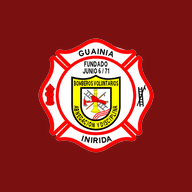
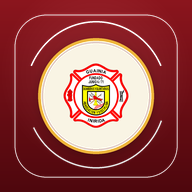
Add files via upload

diff --git a/index.html b/index.html
@@ -40,7 +40,7 @@ try {
      que la CDN responda.
      Motivo 2 (Inírida): el Service Worker ya puede cachearlo, así que el mapa
      deja de depender de una CDN externa para siquiera abrir. -->
-<link rel="stylesheet" href="vendor/leaflet/leaflet.css?v=6.53">
+<link rel="stylesheet" href="vendor/leaflet/leaflet.css?v=6.54">
 <!-- leaflet.markercluster CSS (incrustado) -->
 <style>
 .leaflet-cluster-anim .leaflet-marker-icon, .leaflet-cluster-anim .leaflet-marker-shadow {
@@ -119,7 +119,7 @@ try {
 	line-height: 30px;
 	}
 </style>
-<script src="vendor/leaflet/leaflet.js?v=6.53"></script>
+<script src="vendor/leaflet/leaflet.js?v=6.54"></script>
 <!-- leaflet.markercluster JS (incrustado) -->
 <script>
 !function(e,t){"object"==typeof exports&&"undefined"!=typeof module?t(exports):"function"==typeof define&&define.amd?define(["exports"],t):t(((e=e||self).Leaflet=e.Leaflet||{},e.Leaflet.markercluster={}))}(this,function(e){"use strict";var t=L.MarkerClusterGroup=L.FeatureGroup.extend({options:{maxClusterRadius:80,iconCreateFunction:null,clusterPane:L.Marker.prototype.options.pane,spiderfyOnEveryZoom:!1,spiderfyOnMaxZoom:!0,showCoverageOnHover:!0,zoomToBoundsOnClick:!0,singleMarkerMode:!1,disableClusteringAtZoom:null,removeOutsideVisibleBounds:!0,animate:!0,animateAddingMarkers:!1,spiderfyShapePositions:null,spiderfyDistanceMultiplier:1,spiderLegPolylineOptions:{weight:1.5,color:"#222",opacity:.5},chunkedLoading:!1,chunkInterval:200,chunkDelay:50,chunkProgress:null,polygonOptions:{}},initialize:function(e){L.Util.setOptions(this,e),this.options.iconCreateFunction||(this.options.iconCreateFunction=this._defaultIconCreateFunction),this._featureGroup=L.featureGroup(),this._featureGroup.addEventParent(this),this._nonPointGroup=L.featureGroup(),this._nonPointGroup.addEventParent(this),this._inZoomAnimation=0,this._needsClustering=[],this._needsRemoving=[],this._currentShownBounds=null,this._queue=[],this._childMarkerEventHandlers={dragstart:this._childMarkerDragStart,move:this._childMarkerMoved,dragend:this._childMarkerDragEnd};var t=L.DomUtil.TRANSITION&&this.options.animate;L.extend(this,t?this._withAnimation:this._noAnimation),this._markerCluster=t?L.MarkerCluster:L.MarkerClusterNonAnimated},addLayer:function(e){if(e instanceof L.LayerGroup)return this.addLayers([e]);if(!e.getLatLng)return this._nonPointGroup.addLayer(e),this.fire("layeradd",{layer:e}),this;if(!this._map)return this._needsClustering.push(e),this.fire("layeradd",{layer:e}),this;if(this.hasLayer(e))return this;this._unspiderfy&&this._unspiderfy(),this._addLayer(e,this._maxZoom),this.fire("layeradd",{layer:e}),this._topClusterLevel._recalculateBounds(),this._refreshClustersIcons();var t=e,i=this._zoom;if(e.__parent)for(;t.__parent._zoom>=i;)t=t.__parent;return this._currentShownBounds.contains(t.getLatLng())&&(this.options.animateAddingMarkers?this._animationAddLayer(e,t):this._animationAddLayerNonAnimated(e,t)),this},removeLayer:function(e){return e instanceof L.LayerGroup?this.removeLayers([e]):(e.getLatLng?this._map?e.__parent&&(this._unspiderfy&&(this._unspiderfy(),this._unspiderfyLayer(e)),this._removeLayer(e,!0),this.fire("layerremove",{layer:e}),this._topClusterLevel._recalculateBounds(),this._refreshClustersIcons(),e.off(this._childMarkerEventHandlers,this),this._featureGroup.hasLayer(e)&&(this._featureGroup.removeLayer(e),e.clusterShow&&e.clusterShow())):(!this._arraySplice(this._needsClustering,e)&&this.hasLayer(e)&&this._needsRemoving.push({layer:e,latlng:e._latlng}),this.fire("layerremove",{layer:e})):(this._nonPointGroup.removeLayer(e),this.fire("layerremove",{layer:e})),this)},addLayers:function(n,s){if(!L.Util.isArray(n))return this.addLayer(n);var o,a=this._featureGroup,h=this._nonPointGroup,l=this.options.chunkedLoading,u=this.options.chunkInterval,_=this.options.chunkProgress,d=n.length,p=0,c=!0;if(this._map){var f=(new Date).getTime(),m=L.bind(function(){var e=(new Date).getTime();for(this._map&&this._unspiderfy&&this._unspiderfy();p<d;p++){if(l&&p%200==0){var t=(new Date).getTime()-e;if(u<t)break}if((o=n[p])instanceof L.LayerGroup)c&&(n=n.slice(),c=!1),this._extractNonGroupLayers(o,n),d=n.length;else if(o.getLatLng){if(!this.hasLayer(o)&&(this._addLayer(o,this._maxZoom),s||this.fire("layeradd",{layer:o}),o.__parent&&2===o.__parent.getChildCount())){var i=o.__parent.getAllChildMarkers(),r=i[0]===o?i[1]:i[0];a.removeLayer(r)}}else h.addLayer(o),s||this.fire("layeradd",{layer:o})}_&&_(p,d,(new Date).getTime()-f),p===d?(this._topClusterLevel._recalculateBounds(),this._refreshClustersIcons(),this._topClusterLevel._recursivelyAddChildrenToMap(null,this._zoom,this._currentShownBounds)):setTimeout(m,this.options.chunkDelay)},this);m()}else for(var e=this._needsClustering;p<d;p++)(o=n[p])instanceof L.LayerGroup?(c&&(n=n.slice(),c=!1),this._extractNonGroupLayers(o,n),d=n.length):o.getLatLng?this.hasLayer(o)||e.push(o):h.addLayer(o);return this},removeLayers:function(e){var t,i,r=e.length,n=this._featureGroup,s=this._nonPointGroup,o=!0;if(!this._map){for(t=0;t<r;t++)(i=e[t])instanceof L.LayerGroup?(o&&(e=e.slice(),o=!1),this._extractNonGroupLayers(i,e),r=e.length):(this._arraySplice(this._needsClustering,i),s.removeLayer(i),this.hasLayer(i)&&this._needsRemoving.push({layer:i,latlng:i._latlng}),this.fire("layerremove",{layer:i}));return this}if(this._unspiderfy){this._unspiderfy();var a=e.slice(),h=r;for(t=0;t<h;t++)(i=a[t])instanceof L.LayerGroup?(this._extractNonGroupLayers(i,a),h=a.length):this._unspiderfyLayer(i)}for(t=0;t<r;t++)(i=e[t])instanceof L.LayerGroup?(o&&(e=e.slice(),o=!1),this._extractNonGroupLayers(i,e),r=e.length):i.__parent?(this._removeLayer(i,!0,!0),this.fire("layerremove",{layer:i}),n.hasLayer(i)&&(n.removeLayer(i),i.clusterShow&&i.clusterShow())):(s.removeLayer(i),this.fire("layerremove",{layer:i}));return this._topClusterLevel._recalculateBounds(),this._refreshClustersIcons(),this._topClusterLevel._recursivelyAddChildrenToMap(null,this._zoom,this._currentShownBounds),this},clearLayers:function(){return this._map||(this._needsClustering=[],this._needsRemoving=[],delete this._gridClusters,delete this._gridUnclustered),this._noanimationUnspiderfy&&this._noanimationUnspiderfy(),this._featureGroup.clearLayers(),this._nonPointGroup.clearLayers(),this.eachLayer(function(e){e.off(this._childMarkerEventHandlers,this),delete e.__parent},this),this._map&&this._generateInitialClusters(),this},getBounds:function(){var e=new L.LatLngBounds;this._topClusterLevel&&e.extend(this._topClusterLevel._bounds);for(var t=this._needsClustering.length-1;0<=t;t--)e.extend(this._needsClustering[t].getLatLng());return e.extend(this._nonPointGroup.getBounds()),e},eachLayer:function(e,t){var i,r,n,s=this._needsClustering.slice(),o=this._needsRemoving;for(this._topClusterLevel&&this._topClusterLevel.getAllChildMarkers(s),r=s.length-1;0<=r;r--){for(i=!0,n=o.length-1;0<=n;n--)if(o[n].layer===s[r]){i=!1;break}i&&e.call(t,s[r])}this._nonPointGroup.eachLayer(e,t)},getLayers:function(){var t=[];return this.eachLayer(function(e){t.push(e)}),t},getLayer:function(t){var i=null;return t=parseInt(t,10),this.eachLayer(function(e){L.stamp(e)===t&&(i=e)}),i},hasLayer:function(e){if(!e)return!1;var t,i=this._needsClustering;for(t=i.length-1;0<=t;t--)if(i[t]===e)return!0;for(t=(i=this._needsRemoving).length-1;0<=t;t--)if(i[t].layer===e)return!1;return!(!e.__parent||e.__parent._group!==this)||this._nonPointGroup.hasLayer(e)},zoomToShowLayer:function(e,t){var i=this._map;"function"!=typeof t&&(t=function(){});var r=function(){!i.hasLayer(e)&&!i.hasLayer(e.__parent)||this._inZoomAnimation||(this._map.off("moveend",r,this),this.off("animationend",r,this),i.hasLayer(e)?t():e.__parent._icon&&(this.once("spiderfied",t,this),e.__parent.spiderfy()))};e._icon&&this._map.getBounds().contains(e.getLatLng())?t():e.__parent._zoom<Math.round(this._map._zoom)?(this._map.on("moveend",r,this),this._map.panTo(e.getLatLng())):(this._map.on("moveend",r,this),this.on("animationend",r,this),e.__parent.zoomToBounds())},onAdd:function(e){var t,i,r;if(this._map=e,!isFinite(this._map.getMaxZoom()))throw"Map has no maxZoom specified";for(this._featureGroup.addTo(e),this._nonPointGroup.addTo(e),this._gridClusters||this._generateInitialClusters(),this._maxLat=e.options.crs.projection.MAX_LATITUDE,t=0,i=this._needsRemoving.length;t<i;t++)(r=this._needsRemoving[t]).newlatlng=r.layer._latlng,r.layer._latlng=r.latlng;for(t=0,i=this._needsRemoving.length;t<i;t++)r=this._needsRemoving[t],this._removeLayer(r.layer,!0),r.layer._latlng=r.newlatlng;this._needsRemoving=[],this._zoom=Math.round(this._map._zoom),this._currentShownBounds=this._getExpandedVisibleBounds(),this._map.on("zoomend",this._zoomEnd,this),this._map.on("moveend",this._moveEnd,this),this._spiderfierOnAdd&&this._spiderfierOnAdd(),this._bindEvents(),i=this._needsClustering,this._needsClustering=[],this.addLayers(i,!0)},onRemove:function(e){e.off("zoomend",this._zoomEnd,this),e.off("moveend",this._moveEnd,this),this._unbindEvents(),this._map._mapPane.className=this._map._mapPane.className.replace(" leaflet-cluster-anim",""),this._spiderfierOnRemove&&this._spiderfierOnRemove(),delete this._maxLat,this._hideCoverage(),this._featureGroup.remove(),this._nonPointGroup.remove(),this._featureGroup.clearLayers(),this._map=null},getVisibleParent:function(e){for(var t=e;t&&!t._icon;)t=t.__parent;return t||null},_arraySplice:function(e,t){for(var i=e.length-1;0<=i;i--)if(e[i]===t)return e.splice(i,1),!0},_removeFromGridUnclustered:function(e,t){for(var i=this._map,r=this._gridUnclustered,n=Math.floor(this._map.getMinZoom());n<=t&&r[t].removeObject(e,i.project(e.getLatLng(),t));t--);},_childMarkerDragStart:function(e){e.target.__dragStart=e.target._latlng},_childMarkerMoved:function(e){if(!this._ignoreMove&&!e.target.__dragStart){var t=e.target._popup&&e.target._popup.isOpen();this._moveChild(e.target,e.oldLatLng,e.latlng),t&&e.target.openPopup()}},_moveChild:function(e,t,i){e._latlng=t,this.removeLayer(e),e._latlng=i,this.addLayer(e)},_childMarkerDragEnd:function(e){var t=e.target.__dragStart;delete e.target.__dragStart,t&&this._moveChild(e.target,t,e.target._latlng)},_removeLayer:function(e,t,i){var r=this._gridClusters,n=this._gridUnclustered,s=this._featureGroup,o=this._map,a=Math.floor(this._map.getMinZoom());t&&this._removeFromGridUnclustered(e,this._maxZoom);var h,l=e.__parent,u=l._markers;for(this._arraySplice(u,e);l&&(l._childCount--,l._boundsNeedUpdate=!0,!(l._zoom<a));)t&&l._childCount<=1?(h=l._markers[0]===e?l._markers[1]:l._markers[0],r[l._zoom].removeObject(l,o.project(l._cLatLng,l._zoom)),n[l._zoom].addObject(h,o.project(h.getLatLng(),l._zoom)),this._arraySplice(l.__parent._childClusters,l),l.__parent._markers.push(h),h.__parent=l.__parent,l._icon&&(s.removeLayer(l),i||s.addLayer(h))):l._iconNeedsUpdate=!0,l=l.__parent;delete e.__parent},_isOrIsParent:function(e,t){for(;t;){if(e===t)return!0;t=t.parentNode}return!1},fire:function(e,t,i){if(t&&t.layer instanceof L.MarkerCluster){if(t.originalEvent&&this._isOrIsParent(t.layer._icon,t.originalEvent.relatedTarget))return;e="cluster"+e}L.FeatureGroup.prototype.fire.call(this,e,t,i)},listens:function(e,t){return L.FeatureGroup.prototype.listens.call(this,e,t)||L.FeatureGroup.prototype.listens.call(this,"cluster"+e,t)},_defaultIconCreateFunction:function(e){var t=e.getChildCount(),i=" marker-cluster-";return i+=t<10?"small":t<100?"medium":"large",new L.DivIcon({html:"<div><span>"+t+"</span></div>",className:"marker-cluster"+i,iconSize:new L.Point(40,40)})},_bindEvents:function(){var e=this._map,t=this.options.spiderfyOnMaxZoom,i=this.options.showCoverageOnHover,r=this.options.zoomToBoundsOnClick,n=this.options.spiderfyOnEveryZoom;(t||r||n)&&this.on("clusterclick clusterkeypress",this._zoomOrSpiderfy,this),i&&(this.on("clustermouseover",this._showCoverage,this),this.on("clustermouseout",this._hideCoverage,this),e.on("zoomend",this._hideCoverage,this))},_zoomOrSpiderfy:function(e){var t=e.layer,i=t;if("clusterkeypress"!==e.type||!e.originalEvent||13===e.originalEvent.keyCode){for(;1===i._childClusters.length;)i=i._childClusters[0];i._zoom===this._maxZoom&&i._childCount===t._childCount&&this.options.spiderfyOnMaxZoom?t.spiderfy():this.options.zoomToBoundsOnClick&&t.zoomToBounds(),this.options.spiderfyOnEveryZoom&&t.spiderfy(),e.originalEvent&&13===e.originalEvent.keyCode&&this._map._container.focus()}},_showCoverage:function(e){var t=this._map;this._inZoomAnimation||(this._shownPolygon&&t.removeLayer(this._shownPolygon),2<e.layer.getChildCount()&&e.layer!==this._spiderfied&&(this._shownPolygon=new L.Polygon(e.layer.getConvexHull(),this.options.polygonOptions),t.addLayer(this._shownPolygon)))},_hideCoverage:function(){this._shownPolygon&&(this._map.removeLayer(this._shownPolygon),this._shownPolygon=null)},_unbindEvents:function(){var e=this.options.spiderfyOnMaxZoom,t=this.options.showCoverageOnHover,i=this.options.zoomToBoundsOnClick,r=this.options.spiderfyOnEveryZoom,n=this._map;(e||i||r)&&this.off("clusterclick clusterkeypress",this._zoomOrSpiderfy,this),t&&(this.off("clustermouseover",this._showCoverage,this),this.off("clustermouseout",this._hideCoverage,this),n.off("zoomend",this._hideCoverage,this))},_zoomEnd:function(){this._map&&(this._mergeSplitClusters(),this._zoom=Math.round(this._map._zoom),this._currentShownBounds=this._getExpandedVisibleBounds())},_moveEnd:function(){if(!this._inZoomAnimation){var e=this._getExpandedVisibleBounds();this._topClusterLevel._recursivelyRemoveChildrenFromMap(this._currentShownBounds,Math.floor(this._map.getMinZoom()),this._zoom,e),this._topClusterLevel._recursivelyAddChildrenToMap(null,Math.round(this._map._zoom),e),this._currentShownBounds=e}},_generateInitialClusters:function(){var e=Math.ceil(this._map.getMaxZoom()),t=Math.floor(this._map.getMinZoom()),i=this.options.maxClusterRadius,r=i;"function"!=typeof i&&(r=function(){return i}),null!==this.options.disableClusteringAtZoom&&(e=this.options.disableClusteringAtZoom-1),this._maxZoom=e,this._gridClusters={},this._gridUnclustered={};for(var n=e;t<=n;n--)this._gridClusters[n]=new L.DistanceGrid(r(n)),this._gridUnclustered[n]=new L.DistanceGrid(r(n));this._topClusterLevel=new this._markerCluster(this,t-1)},_addLayer:function(e,t){var i,r,n=this._gridClusters,s=this._gridUnclustered,o=Math.floor(this._map.getMinZoom());for(this.options.singleMarkerMode&&this._overrideMarkerIcon(e),e.on(this._childMarkerEventHandlers,this);o<=t;t--){i=this._map.project(e.getLatLng(),t);var a=n[t].getNearObject(i);if(a)return a._addChild(e),void(e.__parent=a);if(a=s[t].getNearObject(i)){var h=a.__parent;h&&this._removeLayer(a,!1);var l=new this._markerCluster(this,t,a,e);n[t].addObject(l,this._map.project(l._cLatLng,t)),a.__parent=l;var u=e.__parent=l;for(r=t-1;r>h._zoom;r--)u=new this._markerCluster(this,r,u),n[r].addObject(u,this._map.project(a.getLatLng(),r));return h._addChild(u),void this._removeFromGridUnclustered(a,t)}s[t].addObject(e,i)}this._topClusterLevel._addChild(e),e.__parent=this._topClusterLevel},_refreshClustersIcons:function(){this._featureGroup.eachLayer(function(e){e instanceof L.MarkerCluster&&e._iconNeedsUpdate&&e._updateIcon()})},_enqueue:function(e){this._queue.push(e),this._queueTimeout||(this._queueTimeout=setTimeout(L.bind(this._processQueue,this),300))},_processQueue:function(){for(var e=0;e<this._queue.length;e++)this._queue[e].call(this);this._queue.length=0,clearTimeout(this._queueTimeout),this._queueTimeout=null},_mergeSplitClusters:function(){var e=Math.round(this._map._zoom);this._processQueue(),this._zoom<e&&this._currentShownBounds.intersects(this._getExpandedVisibleBounds())?(this._animationStart(),this._topClusterLevel._recursivelyRemoveChildrenFromMap(this._currentShownBounds,Math.floor(this._map.getMinZoom()),this._zoom,this._getExpandedVisibleBounds()),this._animationZoomIn(this._zoom,e)):this._zoom>e?(this._animationStart(),this._animationZoomOut(this._zoom,e)):this._moveEnd()},_getExpandedVisibleBounds:function(){return this.options.removeOutsideVisibleBounds?L.Browser.mobile?this._checkBoundsMaxLat(this._map.getBounds()):this._checkBoundsMaxLat(this._map.getBounds().pad(1)):this._mapBoundsInfinite},_checkBoundsMaxLat:function(e){var t=this._maxLat;return void 0!==t&&(e.getNorth()>=t&&(e._northEast.lat=1/0),e.getSouth()<=-t&&(e._southWest.lat=-1/0)),e},_animationAddLayerNonAnimated:function(e,t){if(t===e)this._featureGroup.addLayer(e);else if(2===t._childCount){t._addToMap();var i=t.getAllChildMarkers();this._featureGroup.removeLayer(i[0]),this._featureGroup.removeLayer(i[1])}else t._updateIcon()},_extractNonGroupLayers:function(e,t){var i,r=e.getLayers(),n=0;for(t=t||[];n<r.length;n++)(i=r[n])instanceof L.LayerGroup?this._extractNonGroupLayers(i,t):t.push(i);return t},_overrideMarkerIcon:function(e){return e.options.icon=this.options.iconCreateFunction({getChildCount:function(){return 1},getAllChildMarkers:function(){return[e]}})}});L.MarkerClusterGroup.include({_mapBoundsInfinite:new L.LatLngBounds(new L.LatLng(-1/0,-1/0),new L.LatLng(1/0,1/0))}),L.MarkerClusterGroup.include({_noAnimation:{_animationStart:function(){},_animationZoomIn:function(e,t){this._topClusterLevel._recursivelyRemoveChildrenFromMap(this._currentShownBounds,Math.floor(this._map.getMinZoom()),e),this._topClusterLevel._recursivelyAddChildrenToMap(null,t,this._getExpandedVisibleBounds()),this.fire("animationend")},_animationZoomOut:function(e,t){this._topClusterLevel._recursivelyRemoveChildrenFromMap(this._currentShownBounds,Math.floor(this._map.getMinZoom()),e),this._topClusterLevel._recursivelyAddChildrenToMap(null,t,this._getExpandedVisibleBounds()),this.fire("animationend")},_animationAddLayer:function(e,t){this._animationAddLayerNonAnimated(e,t)}},_withAnimation:{_animationStart:function(){this._map._mapPane.className+=" leaflet-cluster-anim",this._inZoomAnimation++},_animationZoomIn:function(n,s){var o,a=this._getExpandedVisibleBounds(),h=this._featureGroup,e=Math.floor(this._map.getMinZoom());this._ignoreMove=!0,this._topClusterLevel._recursively(a,n,e,function(e){var t,i=e._latlng,r=e._markers;for(a.contains(i)||(i=null),e._isSingleParent()&&n+1===s?(h.removeLayer(e),e._recursivelyAddChildrenToMap(null,s,a)):(e.clusterHide(),e._recursivelyAddChildrenToMap(i,s,a)),o=r.length-1;0<=o;o--)t=r[o],a.contains(t._latlng)||h.removeLayer(t)}),this._forceLayout(),this._topClusterLevel._recursivelyBecomeVisible(a,s),h.eachLayer(function(e){e instanceof L.MarkerCluster||!e._icon||e.clusterShow()}),this._topClusterLevel._recursively(a,n,s,function(e){e._recursivelyRestoreChildPositions(s)}),this._ignoreMove=!1,this._enqueue(function(){this._topClusterLevel._recursively(a,n,e,function(e){h.removeLayer(e),e.clusterShow()}),this._animationEnd()})},_animationZoomOut:function(e,t){this._animationZoomOutSingle(this._topClusterLevel,e-1,t),this._topClusterLevel._recursivelyAddChildrenToMap(null,t,this._getExpandedVisibleBounds()),this._topClusterLevel._recursivelyRemoveChildrenFromMap(this._currentShownBounds,Math.floor(this._map.getMinZoom()),e,this._getExpandedVisibleBounds())},_animationAddLayer:function(e,t){var i=this,r=this._featureGroup;r.addLayer(e),t!==e&&(2<t._childCount?(t._updateIcon(),this._forceLayout(),this._animationStart(),e._setPos(this._map.latLngToLayerPoint(t.getLatLng())),e.clusterHide(),this._enqueue(function(){r.removeLayer(e),e.clusterShow(),i._animationEnd()})):(this._forceLayout(),i._animationStart(),i._animationZoomOutSingle(t,this._map.getMaxZoom(),this._zoom)))}},_animationZoomOutSingle:function(t,i,r){var n=this._getExpandedVisibleBounds(),s=Math.floor(this._map.getMinZoom());t._recursivelyAnimateChildrenInAndAddSelfToMap(n,s,i+1,r);var o=this;this._forceLayout(),t._recursivelyBecomeVisible(n,r),this._enqueue(function(){if(1===t._childCount){var e=t._markers[0];this._ignoreMove=!0,e.setLatLng(e.getLatLng()),this._ignoreMove=!1,e.clusterShow&&e.clusterShow()}else t._recursively(n,r,s,function(e){e._recursivelyRemoveChildrenFromMap(n,s,i+1)});o._animationEnd()})},_animationEnd:function(){this._map&&(this._map._mapPane.className=this._map._mapPane.className.replace(" leaflet-cluster-anim","")),this._inZoomAnimation--,this.fire("animationend")},_forceLayout:function(){L.Util.falseFn(document.body.offsetWidth)}}),L.markerClusterGroup=function(e){return new L.MarkerClusterGroup(e)};var i=L.MarkerCluster=L.Marker.extend({options:L.Icon.prototype.options,initialize:function(e,t,i,r){L.Marker.prototype.initialize.call(this,i?i._cLatLng||i.getLatLng():new L.LatLng(0,0),{icon:this,pane:e.options.clusterPane}),this._group=e,this._zoom=t,this._markers=[],this._childClusters=[],this._childCount=0,this._iconNeedsUpdate=!0,this._boundsNeedUpdate=!0,this._bounds=new L.LatLngBounds,i&&this._addChild(i),r&&this._addChild(r)},getAllChildMarkers:function(e,t){e=e||[];for(var i=this._childClusters.length-1;0<=i;i--)this._childClusters[i].getAllChildMarkers(e,t);for(var r=this._markers.length-1;0<=r;r--)t&&this._markers[r].__dragStart||e.push(this._markers[r]);return e},getChildCount:function(){return this._childCount},zoomToBounds:function(e){for(var t,i=this._childClusters.slice(),r=this._group._map,n=r.getBoundsZoom(this._bounds),s=this._zoom+1,o=r.getZoom();0<i.length&&s<n;){s++;var a=[];for(t=0;t<i.length;t++)a=a.concat(i[t]._childClusters);i=a}s<n?this._group._map.setView(this._latlng,s):n<=o?this._group._map.setView(this._latlng,o+1):this._group._map.fitBounds(this._bounds,e)},getBounds:function(){var e=new L.LatLngBounds;return e.extend(this._bounds),e},_updateIcon:function(){this._iconNeedsUpdate=!0,this._icon&&this.setIcon(this)},createIcon:function(){return this._iconNeedsUpdate&&(this._iconObj=this._group.options.iconCreateFunction(this),this._iconNeedsUpdate=!1),this._iconObj.createIcon()},createShadow:function(){return this._iconObj.createShadow()},_addChild:function(e,t){this._iconNeedsUpdate=!0,this._boundsNeedUpdate=!0,this._setClusterCenter(e),e instanceof L.MarkerCluster?(t||(this._childClusters.push(e),e.__parent=this),this._childCount+=e._childCount):(t||this._markers.push(e),this._childCount++),this.__parent&&this.__parent._addChild(e,!0)},_setClusterCenter:function(e){this._cLatLng||(this._cLatLng=e._cLatLng||e._latlng)},_resetBounds:function(){var e=this._bounds;e._southWest&&(e._southWest.lat=1/0,e._southWest.lng=1/0),e._northEast&&(e._northEast.lat=-1/0,e._northEast.lng=-1/0)},_recalculateBounds:function(){var e,t,i,r,n=this._markers,s=this._childClusters,o=0,a=0,h=this._childCount;if(0!==h){for(this._resetBounds(),e=0;e<n.length;e++)i=n[e]._latlng,this._bounds.extend(i),o+=i.lat,a+=i.lng;for(e=0;e<s.length;e++)(t=s[e])._boundsNeedUpdate&&t._recalculateBounds(),this._bounds.extend(t._bounds),i=t._wLatLng,r=t._childCount,o+=i.lat*r,a+=i.lng*r;this._latlng=this._wLatLng=new L.LatLng(o/h,a/h),this._boundsNeedUpdate=!1}},_addToMap:function(e){e&&(this._backupLatlng=this._latlng,this.setLatLng(e)),this._group._featureGroup.addLayer(this)},_recursivelyAnimateChildrenIn:function(e,n,t){this._recursively(e,this._group._map.getMinZoom(),t-1,function(e){var t,i,r=e._markers;for(t=r.length-1;0<=t;t--)(i=r[t])._icon&&(i._setPos(n),i.clusterHide())},function(e){var t,i,r=e._childClusters;for(t=r.length-1;0<=t;t--)(i=r[t])._icon&&(i._setPos(n),i.clusterHide())})},_recursivelyAnimateChildrenInAndAddSelfToMap:function(t,i,r,n){this._recursively(t,n,i,function(e){e._recursivelyAnimateChildrenIn(t,e._group._map.latLngToLayerPoint(e.getLatLng()).round(),r),e._isSingleParent()&&r-1===n?(e.clusterShow(),e._recursivelyRemoveChildrenFromMap(t,i,r)):e.clusterHide(),e._addToMap()})},_recursivelyBecomeVisible:function(e,t){this._recursively(e,this._group._map.getMinZoom(),t,null,function(e){e.clusterShow()})},_recursivelyAddChildrenToMap:function(r,n,s){this._recursively(s,this._group._map.getMinZoom()-1,n,function(e){if(n!==e._zoom)for(var t=e._markers.length-1;0<=t;t--){var i=e._markers[t];s.contains(i._latlng)&&(r&&(i._backupLatlng=i.getLatLng(),i.setLatLng(r),i.clusterHide&&i.clusterHide()),e._group._featureGroup.addLayer(i))}},function(e){e._addToMap(r)})},_recursivelyRestoreChildPositions:function(e){for(var t=this._markers.length-1;0<=t;t--){var i=this._markers[t];i._backupLatlng&&(i.setLatLng(i._backupLatlng),delete i._backupLatlng)}if(e-1===this._zoom)for(var r=this._childClusters.length-1;0<=r;r--)this._childClusters[r]._restorePosition();else for(var n=this._childClusters.length-1;0<=n;n--)this._childClusters[n]._recursivelyRestoreChildPositions(e)},_restorePosition:function(){this._backupLatlng&&(this.setLatLng(this._backupLatlng),delete this._backupLatlng)},_recursivelyRemoveChildrenFromMap:function(e,t,i,r){var n,s;this._recursively(e,t-1,i-1,function(e){for(s=e._markers.length-1;0<=s;s--)n=e._markers[s],r&&r.contains(n._latlng)||(e._group._featureGroup.removeLayer(n),n.clusterShow&&n.clusterShow())},function(e){for(s=e._childClusters.length-1;0<=s;s--)n=e._childClusters[s],r&&r.contains(n._latlng)||(e._group._featureGroup.removeLayer(n),n.clusterShow&&n.clusterShow())})},_recursively:function(e,t,i,r,n){var s,o,a=this._childClusters,h=this._zoom;if(t<=h&&(r&&r(this),n&&h===i&&n(this)),h<t||h<i)for(s=a.length-1;0<=s;s--)(o=a[s])._boundsNeedUpdate&&o._recalculateBounds(),e.intersects(o._bounds)&&o._recursively(e,t,i,r,n)},_isSingleParent:function(){return 0<this._childClusters.length&&this._childClusters[0]._childCount===this._childCount}});L.Marker.include({clusterHide:function(){var e=this.options.opacity;return this.setOpacity(0),this.options.opacity=e,this},clusterShow:function(){return this.setOpacity(this.options.opacity)}}),L.DistanceGrid=function(e){this._cellSize=e,this._sqCellSize=e*e,this._grid={},this._objectPoint={}},L.DistanceGrid.prototype={addObject:function(e,t){var i=this._getCoord(t.x),r=this._getCoord(t.y),n=this._grid,s=n[r]=n[r]||{},o=s[i]=s[i]||[],a=L.Util.stamp(e);this._objectPoint[a]=t,o.push(e)},updateObject:function(e,t){this.removeObject(e),this.addObject(e,t)},removeObject:function(e,t){var i,r,n=this._getCoord(t.x),s=this._getCoord(t.y),o=this._grid,a=o[s]=o[s]||{},h=a[n]=a[n]||[];for(delete this._objectPoint[L.Util.stamp(e)],i=0,r=h.length;i<r;i++)if(h[i]===e)return h.splice(i,1),1===r&&delete a[n],!0},eachObject:function(e,t){var i,r,n,s,o,a,h=this._grid;for(i in h)for(r in o=h[i])for(n=0,s=(a=o[r]).length;n<s;n++)e.call(t,a[n])&&(n--,s--)},getNearObject:function(e){var t,i,r,n,s,o,a,h,l=this._getCoord(e.x),u=this._getCoord(e.y),_=this._objectPoint,d=this._sqCellSize,p=null;for(t=u-1;t<=u+1;t++)if(n=this._grid[t])for(i=l-1;i<=l+1;i++)if(s=n[i])for(r=0,o=s.length;r<o;r++)a=s[r],((h=this._sqDist(_[L.Util.stamp(a)],e))<d||h<=d&&null===p)&&(d=h,p=a);return p},_getCoord:function(e){var t=Math.floor(e/this._cellSize);return isFinite(t)?t:e},_sqDist:function(e,t){var i=t.x-e.x,r=t.y-e.y;return i*i+r*r}},L.QuickHull={getDistant:function(e,t){var i=t[1].lat-t[0].lat;return(t[0].lng-t[1].lng)*(e.lat-t[0].lat)+i*(e.lng-t[0].lng)},findMostDistantPointFromBaseLine:function(e,t){var i,r,n,s=0,o=null,a=[];for(i=t.length-1;0<=i;i--)r=t[i],0<(n=this.getDistant(r,e))&&(a.push(r),s<n&&(s=n,o=r));return{maxPoint:o,newPoints:a}},buildConvexHull:function(e,t){var i=[],r=this.findMostDistantPointFromBaseLine(e,t);return r.maxPoint?i=(i=i.concat(this.buildConvexHull([e[0],r.maxPoint],r.newPoints))).concat(this.buildConvexHull([r.maxPoint,e[1]],r.newPoints)):[e[0]]},getConvexHull:function(e){var t,i=!1,r=!1,n=!1,s=!1,o=null,a=null,h=null,l=null,u=null,_=null;for(t=e.length-1;0<=t;t--){var d=e[t];(!1===i||d.lat>i)&&(i=(o=d).lat),(!1===r||d.lat<r)&&(r=(a=d).lat),(!1===n||d.lng>n)&&(n=(h=d).lng),(!1===s||d.lng<s)&&(s=(l=d).lng)}return u=r!==i?(_=a,o):(_=l,h),[].concat(this.buildConvexHull([_,u],e),this.buildConvexHull([u,_],e))}},L.MarkerCluster.include({getConvexHull:function(){var e,t,i=this.getAllChildMarkers(),r=[];for(t=i.length-1;0<=t;t--)e=i[t].getLatLng(),r.push(e);return L.QuickHull.getConvexHull(r)}}),L.MarkerCluster.include({_2PI:2*Math.PI,_circleFootSeparation:25,_circleStartAngle:0,_spiralFootSeparation:28,_spiralLengthStart:11,_spiralLengthFactor:5,_circleSpiralSwitchover:9,spiderfy:function(){if(this._group._spiderfied!==this&&!this._group._inZoomAnimation){var e,t=this.getAllChildMarkers(null,!0),i=this._group._map.latLngToLayerPoint(this._latlng);this._group._unspiderfy(),e=(this._group._spiderfied=this)._group.options.spiderfyShapePositions?this._group.options.spiderfyShapePositions(t.length,i):t.length>=this._circleSpiralSwitchover?this._generatePointsSpiral(t.length,i):(i.y+=10,this._generatePointsCircle(t.length,i)),this._animationSpiderfy(t,e)}},unspiderfy:function(e){this._group._inZoomAnimation||(this._animationUnspiderfy(e),this._group._spiderfied=null)},_generatePointsCircle:function(e,t){var i,r,n=this._group.options.spiderfyDistanceMultiplier*this._circleFootSeparation*(2+e)/this._2PI,s=this._2PI/e,o=[];for(n=Math.max(n,35),o.length=e,i=0;i<e;i++)r=this._circleStartAngle+i*s,o[i]=new L.Point(t.x+n*Math.cos(r),t.y+n*Math.sin(r))._round();return o},_generatePointsSpiral:function(e,t){var i,r=this._group.options.spiderfyDistanceMultiplier,n=r*this._spiralLengthStart,s=r*this._spiralFootSeparation,o=r*this._spiralLengthFactor*this._2PI,a=0,h=[];for(i=h.length=e;0<=i;i--)i<e&&(h[i]=new L.Point(t.x+n*Math.cos(a),t.y+n*Math.sin(a))._round()),n+=o/(a+=s/n+5e-4*i);return h},_noanimationUnspiderfy:function(){var e,t,i=this._group,r=i._map,n=i._featureGroup,s=this.getAllChildMarkers(null,!0);for(i._ignoreMove=!0,this.setOpacity(1),t=s.length-1;0<=t;t--)e=s[t],n.removeLayer(e),e._preSpiderfyLatlng&&(e.setLatLng(e._preSpiderfyLatlng),delete e._preSpiderfyLatlng),e.setZIndexOffset&&e.setZIndexOffset(0),e._spiderLeg&&(r.removeLayer(e._spiderLeg),delete e._spiderLeg);i.fire("unspiderfied",{cluster:this,markers:s}),i._ignoreMove=!1,i._spiderfied=null}}),L.MarkerClusterNonAnimated=L.MarkerCluster.extend({_animationSpiderfy:function(e,t){var i,r,n,s,o=this._group,a=o._map,h=o._featureGroup,l=this._group.options.spiderLegPolylineOptions;for(o._ignoreMove=!0,i=0;i<e.length;i++)s=a.layerPointToLatLng(t[i]),r=e[i],n=new L.Polyline([this._latlng,s],l),a.addLayer(n),r._spiderLeg=n,r._preSpiderfyLatlng=r._latlng,r.setLatLng(s),r.setZIndexOffset&&r.setZIndexOffset(1e6),h.addLayer(r);this.setOpacity(.3),o._ignoreMove=!1,o.fire("spiderfied",{cluster:this,markers:e})},_animationUnspiderfy:function(){this._noanimationUnspiderfy()}}),L.MarkerCluster.include({_animationSpiderfy:function(e,t){var i,r,n,s,o,a,h=this,l=this._group,u=l._map,_=l._featureGroup,d=this._latlng,p=u.latLngToLayerPoint(d),c=L.Path.SVG,f=L.extend({},this._group.options.spiderLegPolylineOptions),m=f.opacity;for(void 0===m&&(m=L.MarkerClusterGroup.prototype.options.spiderLegPolylineOptions.opacity),c?(f.opacity=0,f.className=(f.className||"")+" leaflet-cluster-spider-leg"):f.opacity=m,l._ignoreMove=!0,i=0;i<e.length;i++)r=e[i],a=u.layerPointToLatLng(t[i]),n=new L.Polyline([d,a],f),u.addLayer(n),r._spiderLeg=n,c&&(o=(s=n._path).getTotalLength()+.1,s.style.strokeDasharray=o,s.style.strokeDashoffset=o),r.setZIndexOffset&&r.setZIndexOffset(1e6),r.clusterHide&&r.clusterHide(),_.addLayer(r),r._setPos&&r._setPos(p);for(l._forceLayout(),l._animationStart(),i=e.length-1;0<=i;i--)a=u.layerPointToLatLng(t[i]),(r=e[i])._preSpiderfyLatlng=r._latlng,r.setLatLng(a),r.clusterShow&&r.clusterShow(),c&&((s=(n=r._spiderLeg)._path).style.strokeDashoffset=0,n.setStyle({opacity:m}));this.setOpacity(.3),l._ignoreMove=!1,setTimeout(function(){l._animationEnd(),l.fire("spiderfied",{cluster:h,markers:e})},200)},_animationUnspiderfy:function(e){var t,i,r,n,s,o,a=this,h=this._group,l=h._map,u=h._featureGroup,_=e?l._latLngToNewLayerPoint(this._latlng,e.zoom,e.center):l.latLngToLayerPoint(this._latlng),d=this.getAllChildMarkers(null,!0),p=L.Path.SVG;for(h._ignoreMove=!0,h._animationStart(),this.setOpacity(1),i=d.length-1;0<=i;i--)(t=d[i])._preSpiderfyLatlng&&(t.closePopup(),t.setLatLng(t._preSpiderfyLatlng),delete t._preSpiderfyLatlng,o=!0,t._setPos&&(t._setPos(_),o=!1),t.clusterHide&&(t.clusterHide(),o=!1),o&&u.removeLayer(t),p&&(s=(n=(r=t._spiderLeg)._path).getTotalLength()+.1,n.style.strokeDashoffset=s,r.setStyle({opacity:0})));h._ignoreMove=!1,setTimeout(function(){var e=0;for(i=d.length-1;0<=i;i--)(t=d[i])._spiderLeg&&e++;for(i=d.length-1;0<=i;i--)(t=d[i])._spiderLeg&&(t.clusterShow&&t.clusterShow(),t.setZIndexOffset&&t.setZIndexOffset(0),1<e&&u.removeLayer(t),l.removeLayer(t._spiderLeg),delete t._spiderLeg);h._animationEnd(),h.fire("unspiderfied",{cluster:a,markers:d})},200)}}),L.MarkerClusterGroup.include({_spiderfied:null,unspiderfy:function(){this._unspiderfy.apply(this,arguments)},_spiderfierOnAdd:function(){this._map.on("click",this._unspiderfyWrapper,this),this._map.options.zoomAnimation&&this._map.on("zoomstart",this._unspiderfyZoomStart,this),this._map.on("zoomend",this._noanimationUnspiderfy,this),L.Browser.touch||this._map.getRenderer(this)},_spiderfierOnRemove:function(){this._map.off("click",this._unspiderfyWrapper,this),this._map.off("zoomstart",this._unspiderfyZoomStart,this),this._map.off("zoomanim",this._unspiderfyZoomAnim,this),this._map.off("zoomend",this._noanimationUnspiderfy,this),this._noanimationUnspiderfy()},_unspiderfyZoomStart:function(){this._map&&this._map.on("zoomanim",this._unspiderfyZoomAnim,this)},_unspiderfyZoomAnim:function(e){L.DomUtil.hasClass(this._map._mapPane,"leaflet-touching")||(this._map.off("zoomanim",this._unspiderfyZoomAnim,this),this._unspiderfy(e))},_unspiderfyWrapper:function(){this._unspiderfy()},_unspiderfy:function(e){this._spiderfied&&this._spiderfied.unspiderfy(e)},_noanimationUnspiderfy:function(){this._spiderfied&&this._spiderfied._noanimationUnspiderfy()},_unspiderfyLayer:function(e){e._spiderLeg&&(this._featureGroup.removeLayer(e),e.clusterShow&&e.clusterShow(),e.setZIndexOffset&&e.setZIndexOffset(0),this._map.removeLayer(e._spiderLeg),delete e._spiderLeg)}}),L.MarkerClusterGroup.include({refreshClusters:function(e){return e?e instanceof L.MarkerClusterGroup?e=e._topClusterLevel.getAllChildMarkers():e instanceof L.LayerGroup?e=e._layers:e instanceof L.MarkerCluster?e=e.getAllChildMarkers():e instanceof L.Marker&&(e=[e]):e=this._topClusterLevel.getAllChildMarkers(),this._flagParentsIconsNeedUpdate(e),this._refreshClustersIcons(),this.options.singleMarkerMode&&this._refreshSingleMarkerModeMarkers(e),this},_flagParentsIconsNeedUpdate:function(e){var t,i;for(t in e)for(i=e[t].__parent;i;)i._iconNeedsUpdate=!0,i=i.__parent},_refreshSingleMarkerModeMarkers:function(e){var t,i;for(t in e)i=e[t],this.hasLayer(i)&&i.setIcon(this._overrideMarkerIcon(i))}}),L.Marker.include({refreshIconOptions:function(e,t){var i=this.options.icon;return L.setOptions(i,e),this.setIcon(i),t&&this.__parent&&this.__parent._group.refreshClusters(this),this}}),e.MarkerClusterGroup=t,e.MarkerCluster=i,Object.defineProperty(e,"__esModule",{value:!0})});
@@ -2062,7 +2062,7 @@ button:focus-visible, [tabindex]:focus-visible, a:focus-visible { outline:3px so
     <div style="background:#fff;border-radius:10px;padding:16px;line-height:1.7;color:#222;font-size:14px;">
 
       <div style="background:#fff3e0;border-left:4px solid #e65100;padding:10px 12px;border-radius:6px;margin-bottom:14px;font-size:13px;">
-        <b>CBVI Reportes v6.53</b> — Sistema oficial de gestión operativa del Cuerpo de Bomberos Voluntarios de Inírida.<br>
+        <b>CBVI Reportes v6.54</b> — Sistema oficial de gestión operativa del Cuerpo de Bomberos Voluntarios de Inírida.<br>
         <b>"ABNEGACIÓN Y DISCIPLINA"</b>
       </div>
 
@@ -3120,8 +3120,8 @@ button:focus-visible, [tabindex]:focus-visible, a:focus-visible { outline:3px so
   </div>
 </div>
 
-<script src="logos.js?v=6.53"></script>
-<script src="app.js?v=6.53"></script>
+<script src="logos.js?v=6.54"></script>
+<script src="app.js?v=6.54"></script>
 
 <!-- ══════════ PANTALLA: NUEVA ACTIVIDAD ══════════ -->
 <div class="pantalla" id="pantallaActividades">

diff --git a/app.js b/app.js
@@ -24,8 +24,9 @@ const URL_BACKEND = 'https://script.google.com/macros/s/AKfycbzVI3oEk78vHY2kQ15o
 // Video-tutorial: enlace que Jeferson grabará. Hasta que exista, URL_TUTORIAL_VIDEO
 // está vacía y el botón lo dice ("Video: próximamente"). Es un solo lugar que cambiar.
 const URL_TUTORIAL_VIDEO = '';
-const APP_VERSION = '6.53';
+const APP_VERSION = '6.54';
 const APP_VERSION_NOTAS = [
+  'v6.54: Ajuste del color de la barra del sistema al arrancar: ahora coincide con el azul marino de la aplicación y el fondo de inicio. No cambia funciones ni datos.',
   'v6.53: Nuevo icono oficial de la aplicación y arranque con identidad CBVI. El escudo se mantiene legible en las distintas formas de icono de Android y el inicio usa un fondo azul noche sin destello blanco. No cambia funciones ni datos.',
   'v6.52: ◇ La interfaz estrena un sistema propio de iconos SVG: más nítido, consistente y legible en distintos teléfonos, sin descargar recursos externos.',
   'v6.51: Los botones de las ventanas de confirmación tienen un área táctil mínima de 44 px para facilitar su uso en el teléfono.',

diff --git a/sw.js b/sw.js
@@ -1,8 +1,8 @@
-/* Service Worker v6.53 - CBVI Reportes
+/* Service Worker v6.54 - CBVI Reportes
    NETWORK-FIRST para los archivos del propio sitio: con internet SIEMPRE
    baja la última versión (se acabó el caché viejo pegado en el teléfono).
    El caché queda solo como respaldo cuando NO hay señal. */
-const CACHE = 'bomberos-inirida-v6-53';
+const CACHE = 'bomberos-inirida-v6-54';
 // v5.99: se agregan los archivos de Leaflet (ahora autoalojados). Antes venían
 // de unpkg.com y NO se cacheaban: sin señal, la libreria del mapa no existia y
 // la pantalla solo podia mostrar el aviso de "revisa tu conexion".
